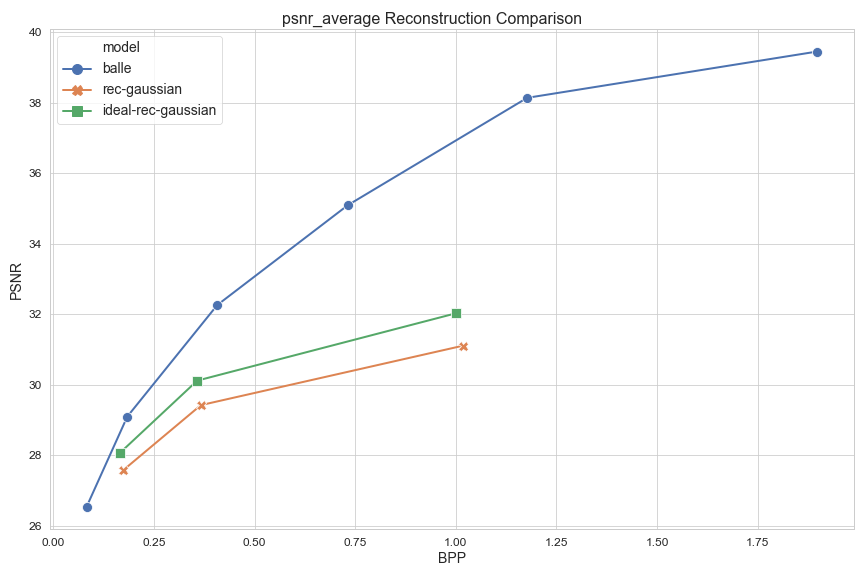
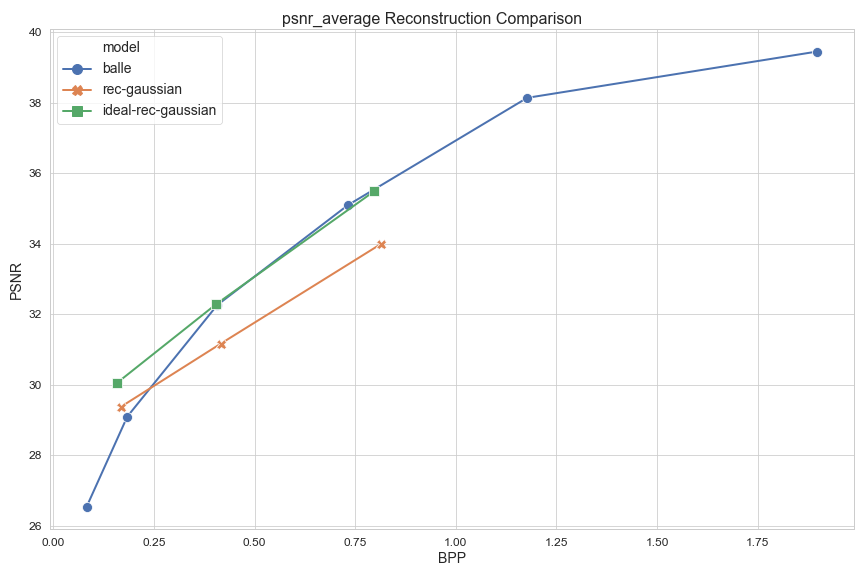
Corrections to results.csv format for lossy models

diff --git a/examples/lossy/compress_with_lossy_model.py b/examples/lossy/compress_with_lossy_model.py
@@ -14,7 +14,7 @@ from rec.coding.samplers import RejectionSampler, ImportanceSampler
 from datasets import data_ingredient, load_dataset, write_png
 
 tfd = tfp.distributions
-tf.config.experimental.set_visible_devices([], 'GPU')
+#tf.config.experimental.set_visible_devices([], 'GPU')
 
 ex = Experiment("compress_with_loss_model", ingredients=[data_ingredient])
 
@@ -101,7 +101,6 @@ def compress(dataset,
              num_test_images,
 
              _log):
-
     if len(model_dir) == 0:
         raise ValueError("Model directory must be specified!")
 
@@ -166,11 +165,8 @@ def compress(dataset,
         outfile.write(', '.join(['name',
                                  'KL',
                                  'lossy_BPP',
-                                 'comp_residual',
                                  'comp_codelength',
-                                 'comp_lossless_BPP',
                                  'comp_lossy_BPP',
-                                 'comp_BPD',
                                  'comp_time',
                                  'ideal_PSNR',
                                  'ideal_MS_SSIM',
@@ -223,12 +219,12 @@ def compress(dataset,
         try:
             compressed_file_path = f"{model_dir}/{reconstruction_dir_name}/{image_name}.rec"
 
-            block_indices, reconstruction = model.compress(file_path=compressed_file_path,
-                                                           image=image,
-                                                           seed=compression_seed,
-                                                           sampler=coder,
-                                                           block_size=block_size,
-                                                           max_index=20)
+            reconstruction = model.compress(file_path=compressed_file_path,
+                                            image=image,
+                                            seed=compression_seed,
+                                            sampler=coder,
+                                            block_size=block_size,
+                                            max_index=20)
 
             compressed_file_bits = os.path.getsize(compressed_file_path) * 8
 
@@ -238,19 +234,13 @@ def compress(dataset,
         except Exception:
             _log.info("Coding Error occurred.")
             raise
-            continue
 
         comp_time = time.time() - start_time
-        comp_codelength = compressed_file_bits
-        comp_residual = -model.log_likelihood / np.log(2)
-        comp_lossy_bpp = comp_codelength / num_pixels
-        comp_lossless_bpp = comp_residual / num_pixels + comp_lossy_bpp
-        comp_bpd = comp_lossless_bpp / dataset["num_channels"]
-
+        comp_lossy_bpp = compressed_file_bits / num_pixels
         reconstruction = tf.clip_by_value(reconstruction, 0., 1.)
 
         psnr = tf.squeeze(tf.image.psnr(reconstruction * 255.,
-                                        image=255.,
+                                        image * 255.,
                                         max_val=255.))
 
         ms_ssim = tf.squeeze(tf.image.ssim_multiscale(reconstruction * 255.,
@@ -265,17 +255,14 @@ def compress(dataset,
                   f"PSNR: {psnr:.4f}, "
                   f"MS-SSIM: {ms_ssim:.4f},"
                   f"comp_time: {comp_time}")
-        _log.info("Codelength: {}, residuals: {}".format(comp_codelength, comp_residual))
+        _log.info(f"Codelength: {compressed_file_bits}")
 
         with open(output_filename, "a") as outfile:
             outfile.write(', '.join([image_name] +
                                     [str(float(v)) for v in [kld,
                                                              lossy_bpp,
-                                                             comp_residual,
-                                                             comp_codelength,
-                                                             comp_lossless_bpp,
+                                                             compressed_file_bits,
                                                              comp_lossy_bpp,
-                                                             comp_bpd,
                                                              comp_time,
                                                              ideal_psnr,
                                                              ideal_ms_ssim,
